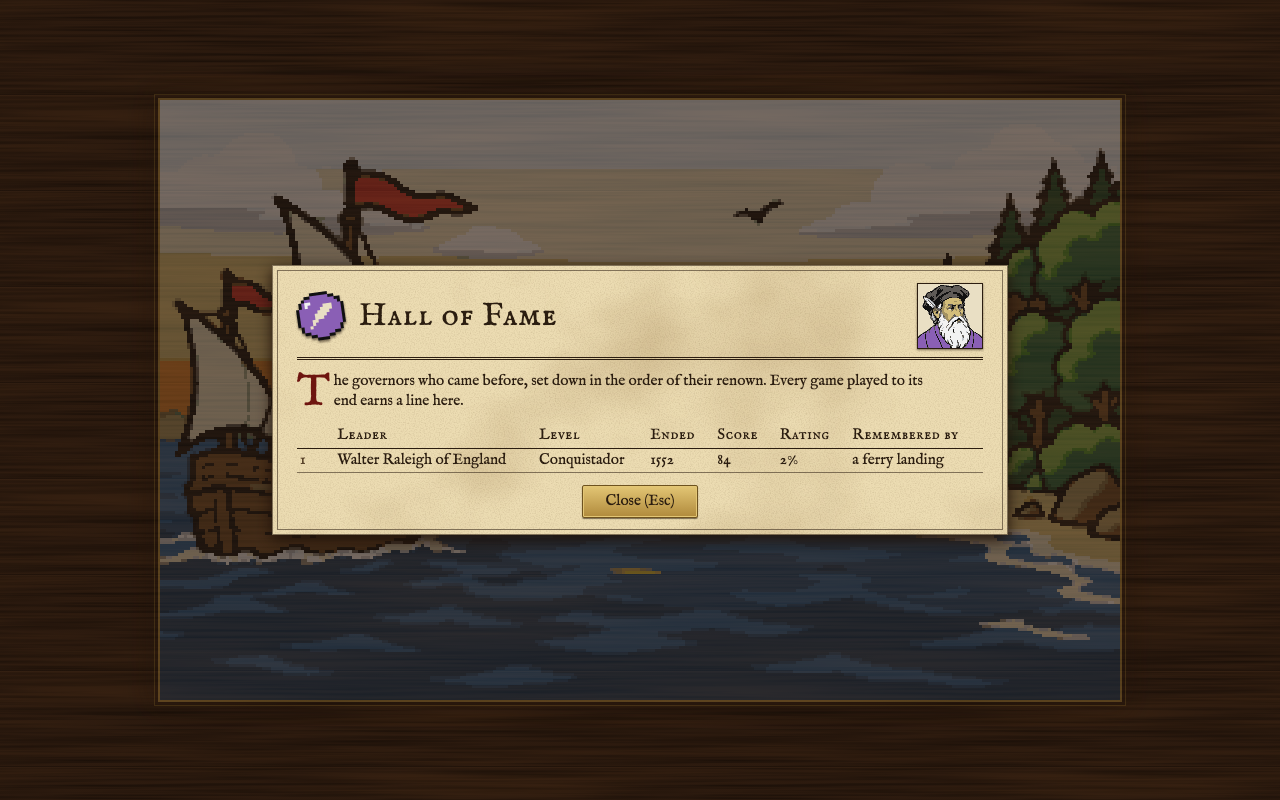
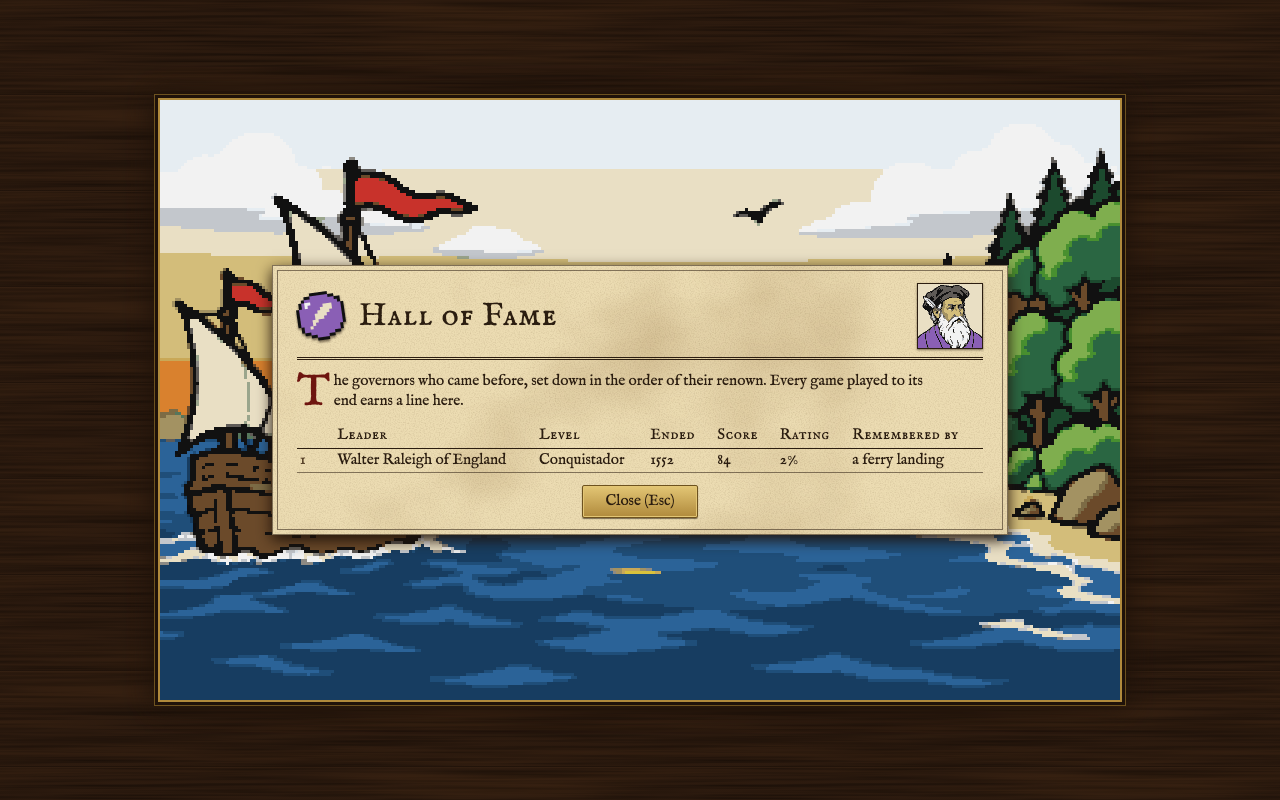
R-1026: fix the screenshots taken mid-fade and the Recruit check
Pictures are taken with CSS transitions finished, so the title painting is never caught part way
through its fade (title, choose-power, hall-of-fame regenerated; a second run gives the same bytes);
the Recruit step waits for its own dialog, not for Europe.

diff --git a/test/e2e/wiki-shots.spec.ts b/test/e2e/wiki-shots.spec.ts
@@ -45,7 +45,8 @@ async function shoot(page: Page, name: string, { parked = true }: { parked?: boo
   if (parked) await park(page);
   await page.evaluate(() => document.fonts.ready.then(() => undefined));
   await settled(page);
-  await page.screenshot({ path: `${OUT}/${name}.png` });
+  // (CSS transitions, such as the title painting's fade, are finished first)
+  await page.screenshot({ path: `${OUT}/${name}.png`, animations: 'disabled' });
 }
 
 /** Open the page with a prepared game in the autosave and load it from the title screen. */
@@ -259,7 +260,7 @@ test('Europe and its Recruit window', async ({ page }) => {
   await expect(europe).toBeVisible();
   await shoot(page, 'europe');
   await page.keyboard.press('r');
-  await expect(page.getByRole('dialog').filter({ hasText: /recruit/i }).last()).toBeVisible();
+  await expect(page.locator('.dialog').filter({ hasText: 'Whose passage will you pay?' })).toBeVisible();
   await shoot(page, 'europe-recruit');
 });
 
